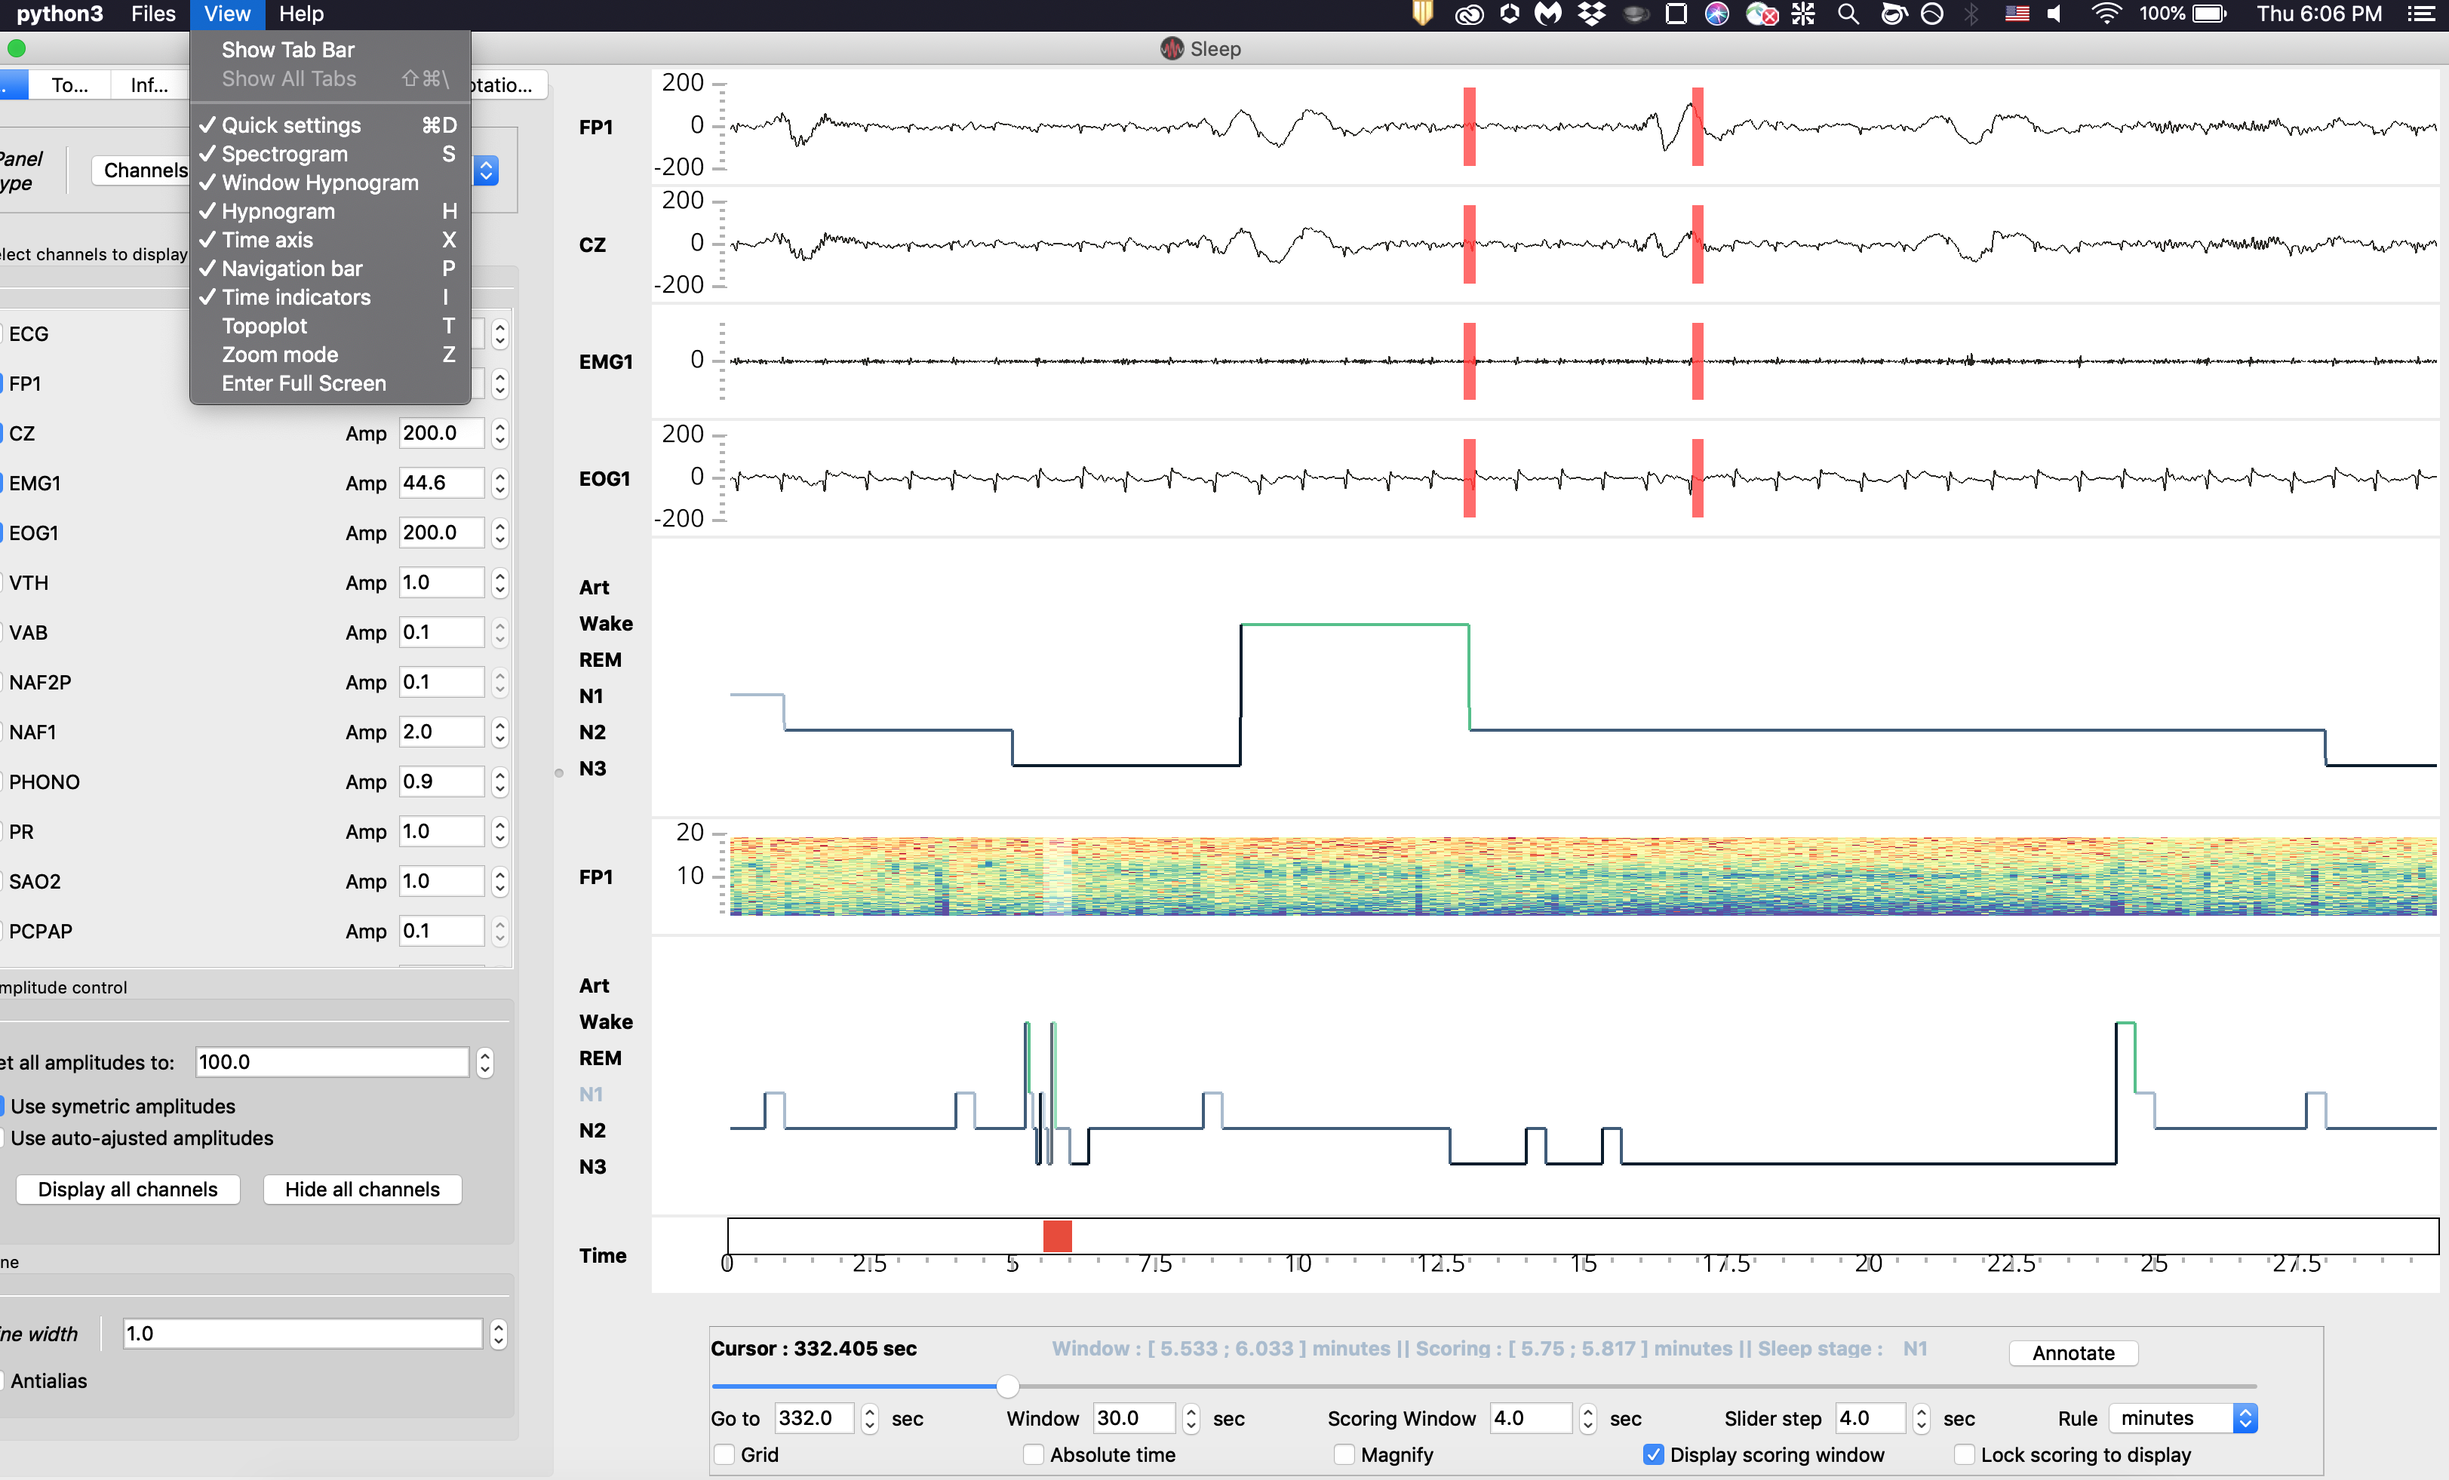
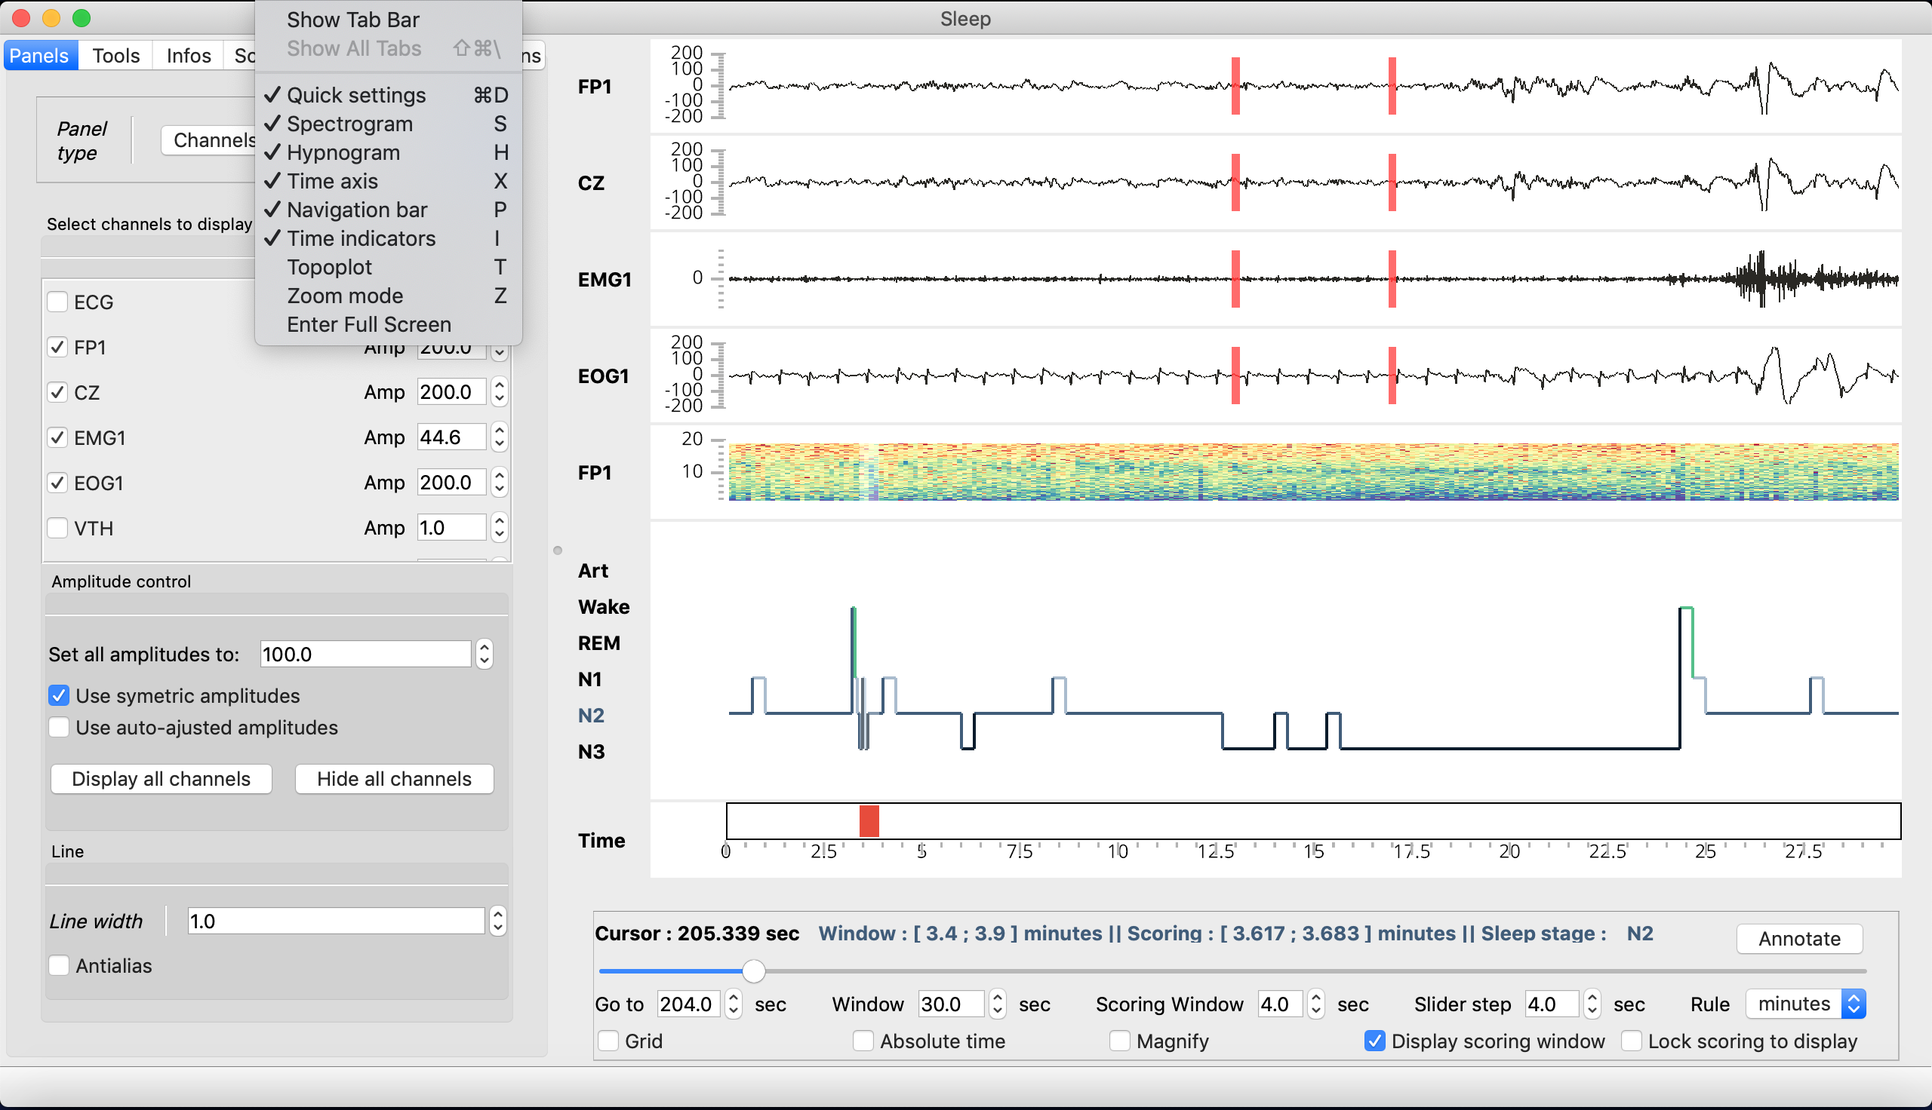
Update doc (remove Window Hypnogram and stress Zoom mode)

diff --git a/docs/sleep.rst b/docs/sleep.rst
@@ -128,8 +128,7 @@ The contextual menu allows to perform several functions such as the loading and 
 **Main window** :
     * Polysomnographic data
     * Spectrogram (= time-frequency) of the whole recording
-    * Whole recording hypnogram
-    * Display window hypnogram (*hidden by default*)
+    * Hypnogram
     * Topoplot (*hidden by default*)
 
 **Navigation bar** :
@@ -622,13 +621,13 @@ to the duration of the displayed epoch. This mode is useful for scoring human da
 window" is independent from the display window**, letting the user score short
 epochs while visualizing the data around the scored epochs. The limits of the
 scoring window are indicated by vertical bars on the channel plots (which can be
-hidden by toggling the "Display scoring window" option). By displaying the
-"Window Hypnogram" (in the menu options), the user can also see the hypnogram
-stages within the whole displayed epoch, and thus around the scored epoch. This is
-typically useful for scoring animal datasets. By default in this mode, the
-slider step is equal to the duration of the scoring window. The software will
-switch automatically to the "unlocked" mode when explicitly changing the scoring
-window size. 
+hidden by toggling the "Display scoring window" option). By entering the "Zoom"
+mode ("Zoom" in the menu options or shortcut "z"), the user can also zoom into
+the hypnogram to visualize the stages within the whole displayed epoch, and thus
+around the scored epoch. This is typically useful for scoring animal datasets.
+By default in this mode, the slider step is equal to the duration of the scoring
+window. The software will switch automatically to the "unlocked" mode when
+explicitly changing the scoring window size. 
 
 
 .. warning::
@@ -642,6 +641,9 @@ window size.
    :align:   center
    Score the epoch within the centered "scoring window"
 
+.. figure::  _static/sleep/sleep_scoring_unlocked_zoom.png
+   :align:   center
+   Use the "Zoom" mode to visualize the hypnogram around the scored epoch
 
 .. ----------------------------------------------------------------------------
 ..                              DETECTIONS
